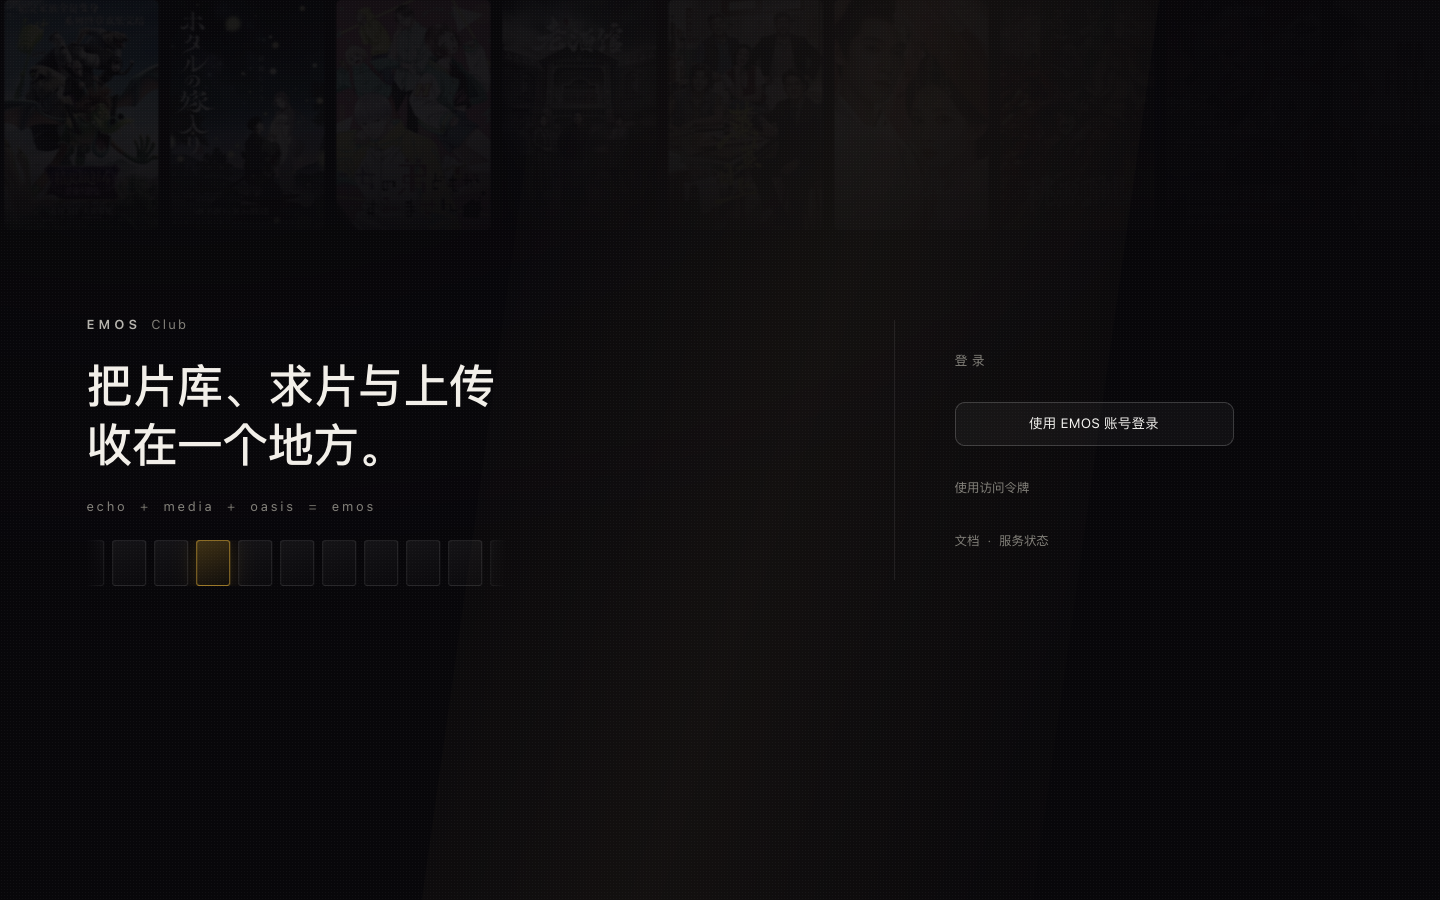
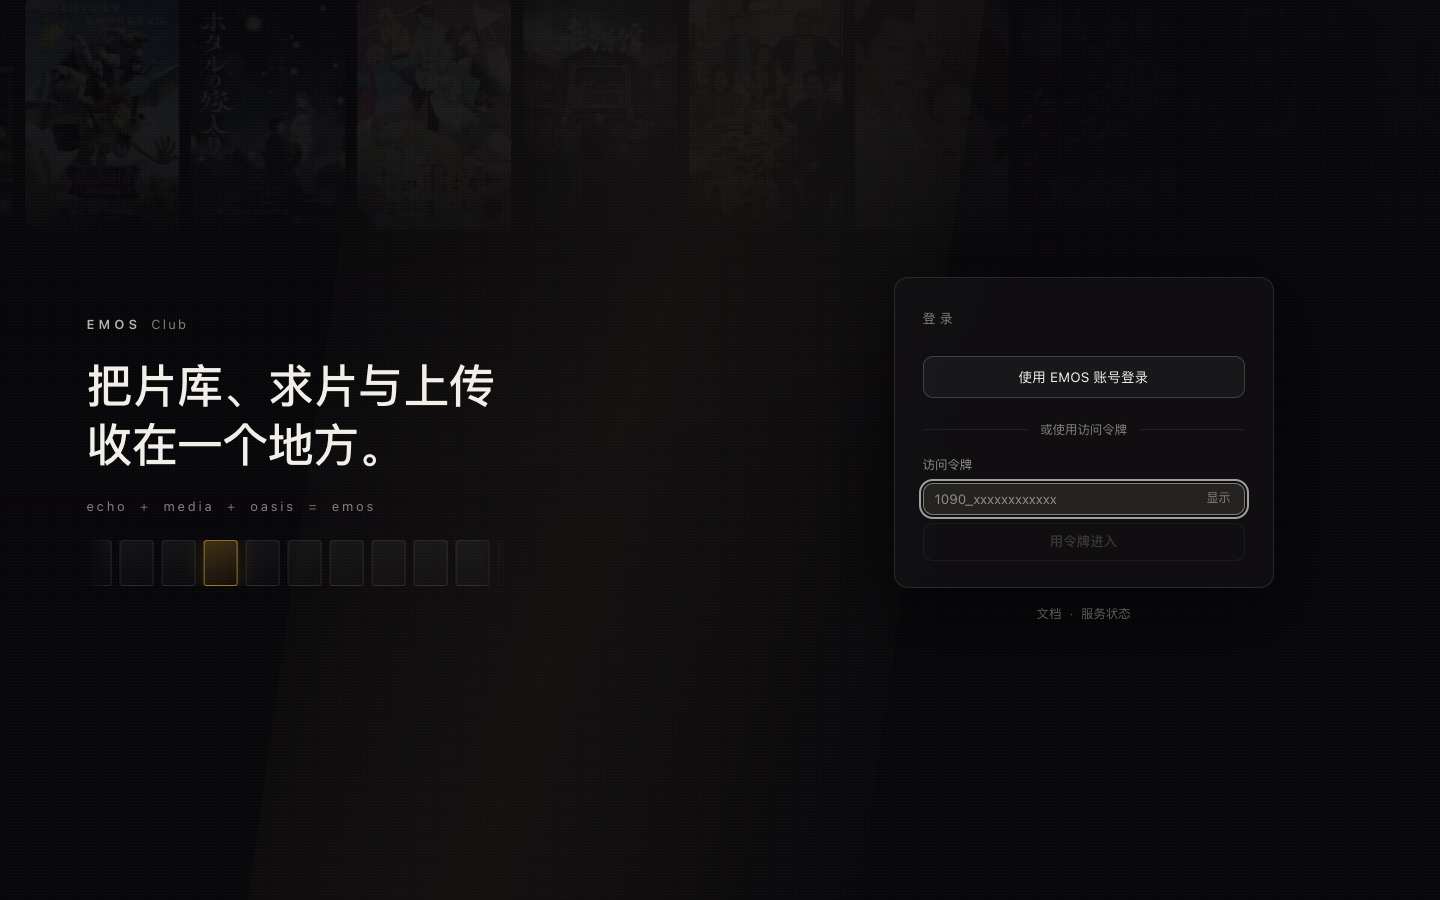
style(login): 恢复卡片容器，令牌表单默认展开
- 右栏恢复为玻璃卡片（边框 + 3% 白底 + 14px 圆角 + 投影），
  与左侧开放海报区形成轻重对比，不再是两个开放区并排
- 令牌输入不再折叠，默认显示：主按钮下方用分隔线分出第二入口
- 主按钮保持描边样式；令牌提交按钮用 primary，禁用时降为同款描边，
  填了令牌才亮起来，状态自解释
- 页脚回到卡片下方居中

diff --git a/src/styles/components.css b/src/styles/components.css
@@ -1324,18 +1324,14 @@ th.num .th-sort { flex-direction: row-reverse; }
 
 .login__panel {
   display: grid;
-  gap: 0;
-  align-content: center;
+  gap: 16px;
   justify-items: stretch;
-  width: 340px;
-  min-height: 260px;
-  padding-left: 60px;
-  border-left: 1px solid rgba(255, 255, 255, 0.08);
+  width: 380px;
   align-self: center;
 }
 
 .login__kicker {
-  margin: 0 0 18px;
+  margin: 0 0 14px;
   font-size: 13px;
   letter-spacing: 0.32em;
   color: var(--fg-4);
@@ -1344,6 +1340,12 @@ th.num .th-sort { flex-direction: row-reverse; }
 .login__card {
   display: grid;
   gap: 14px;
+  padding: 30px 28px 26px;
+  border: 1px solid rgba(255, 255, 255, 0.1);
+  border-radius: 14px;
+  background: rgba(18, 17, 20, 0.72);
+  backdrop-filter: blur(18px);
+  box-shadow: 0 24px 70px rgba(0, 0, 0, 0.55);
   animation: page-in var(--t-enter) var(--ease);
 }
 
@@ -1373,7 +1375,7 @@ th.num .th-sort { flex-direction: row-reverse; }
 }
 
 .login__cta {
-  height: 44px;
+  height: 42px;
   font-size: 13.5px;
   letter-spacing: 0.02em;
   border: 1px solid rgba(255, 255, 255, 0.18);
@@ -1387,6 +1389,21 @@ th.num .th-sort { flex-direction: row-reverse; }
   color: #fff;
 }
 
+.login__or {
+  display: flex;
+  align-items: center;
+  gap: 12px;
+  margin: 8px 0 2px;
+  font-size: 12.5px;
+  color: var(--fg-4);
+}
+.login__or::before,
+.login__or::after {
+  content: '';
+  flex: 1;
+  height: 1px;
+  background: rgba(255, 255, 255, 0.07);
+}
 .login__toggle {
   justify-self: start;
   margin-top: 18px;
@@ -1426,13 +1443,19 @@ th.num .th-sort { flex-direction: row-reverse; }
 
 .login__error { margin: 0; font-size: 12.5px; line-height: 1.6; color: var(--c-red); }
 
-.login__submit { width: 100%; height: 36px; }
+.login__submit { width: 100%; height: 38px; font-size: 13.5px; }
+.login__submit:disabled {
+  background: transparent;
+  border: 1px solid rgba(255, 255, 255, 0.12);
+  color: var(--fg-5);
+  box-shadow: none;
+}
 
 .login__foot {
   display: flex;
   gap: 8px;
-  justify-content: flex-start;
-  margin: 34px 0 0;
+  justify-content: center;
+  margin: 0;
   font-size: 12.5px;
   color: var(--fg-5);
 }

diff --git a/src/views/LoginView.tsx b/src/views/LoginView.tsx
@@ -23,7 +23,6 @@ export function LoginView({ onDone }: { onDone: () => void }) {
   const [phase, setPhase] = useState<Phase>('idle')
   const [message, setMessage] = useState('')
   const [reveal, setReveal] = useState(false)
-  const [manual, setManual] = useState(Boolean(readPrefill()))
 
   useEffect(() => {
     if (token) void submit(token)
@@ -98,12 +97,9 @@ export function LoginView({ onDone }: { onDone: () => void }) {
             使用 EMOS 账号登录
           </a>
 
-          <button className="login__toggle" type="button" onClick={() => setManual((value) => !value)} aria-expanded={manual}>
-            {manual ? '收起' : '使用访问令牌'}
-          </button>
+          <p className="login__or"><span>或使用访问令牌</span></p>
 
-          {manual ? (
-            <form
+          <form
               className="login__manual"
               onSubmit={(event) => {
                 event.preventDefault()
@@ -147,17 +143,10 @@ export function LoginView({ onDone }: { onDone: () => void }) {
                   {message}
                 </p>
               ) : null}
-              <button className="btn btn--ghost login__submit" disabled={!token.trim() || phase === 'checking'}>
+              <button className="btn btn--primary login__submit" disabled={!token.trim() || phase === 'checking'}>
                 {phase === 'checking' ? '正在验证…' : '用令牌进入'}
               </button>
-            </form>
-          ) : null}
-
-          {!manual && message ? (
-            <p className="login__error" role="alert">
-              {message}
-            </p>
-          ) : null}
+          </form>
         </div>
 
         <p className="login__foot">
